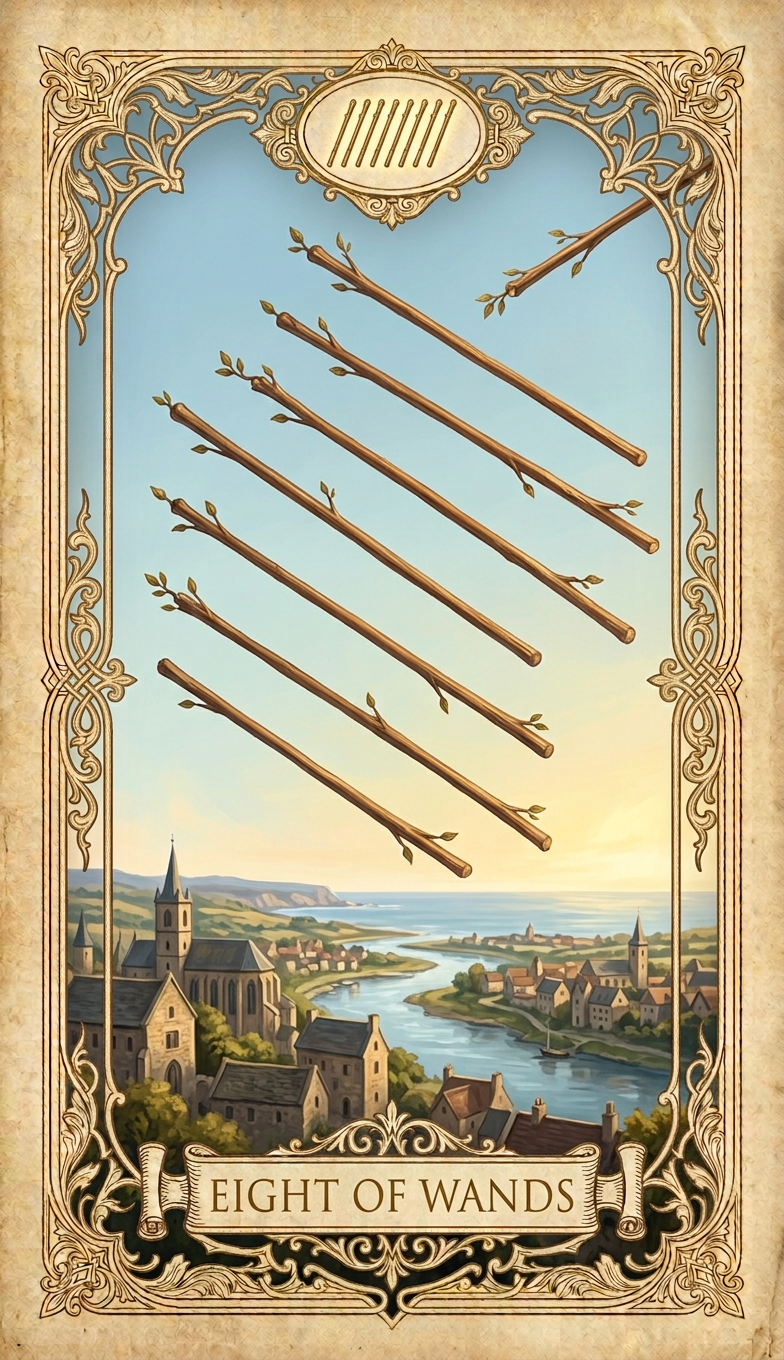
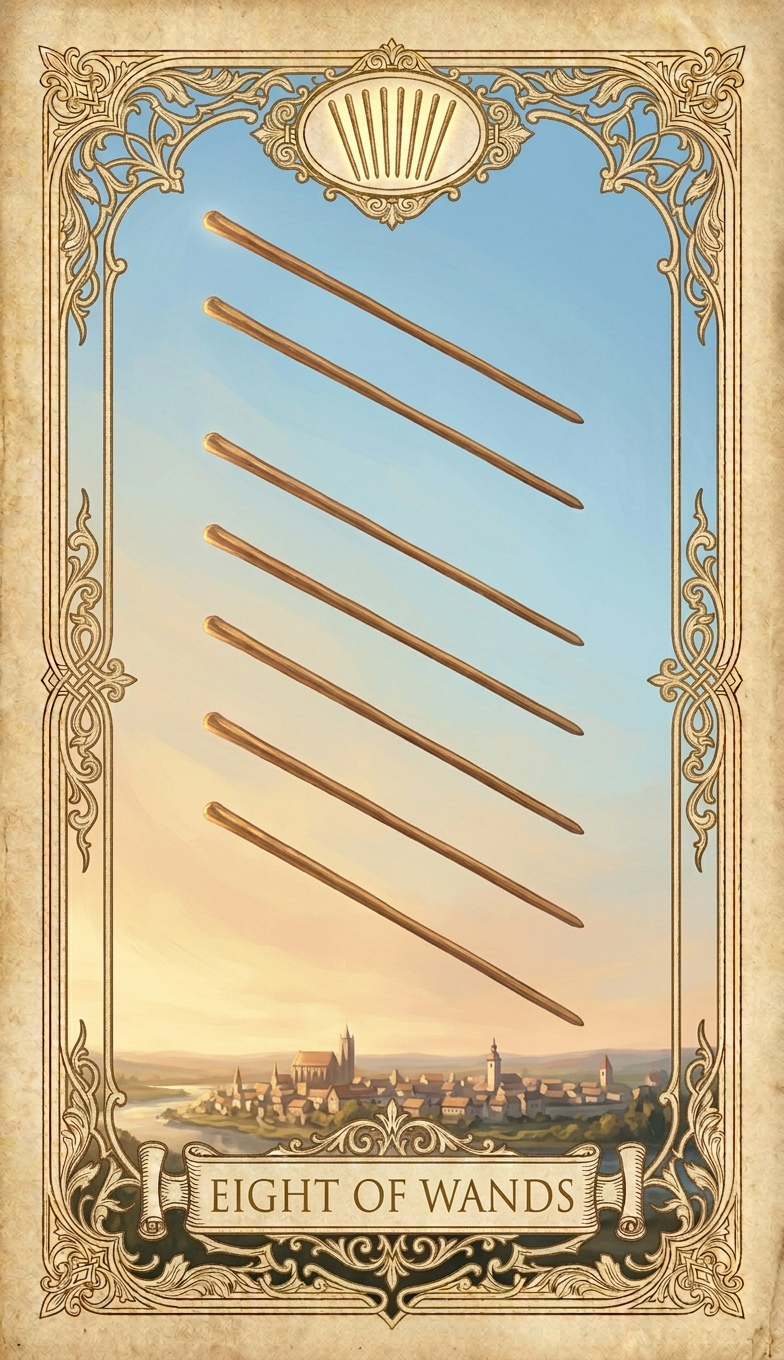
Keep Three/Nine/Page of Wands; redo Eight & Knight of Wands
User verified Three (3), Nine (9) and Page (1) wands are correct and kept
them. Redid the two remaining cards with stricter count-safe layouts:
- Eight of Wands: 8 identical wands in one parallel diagonal row with wide
  plain-sky gaps, none touching/crossing/cropped (frame RMSE 0.019).
- Knight of Wands: exactly one wand raised; no spear/staff/pole/flagpole
  anywhere in the scene (frame RMSE 0.020).

Wands suit now 14/14 complete in the softer+sensual+transparent-silk style.

diff --git a/web/wands-count-check.html b/web/wands-count-check.html
@@ -3,31 +3,27 @@
 <head>
 <meta charset="UTF-8">
 <meta name="viewport" content="width=device-width, initial-scale=1.0">
-<title>Kiểm tra số gậy — 5 lá Wands</title>
+<title>Kiểm tra số gậy — 2 lá làm lại</title>
 <style>
-  :root { --bg:#0e0c0a; --panel:#1e1a14; --gold:#d4af37; --ink:#e6d7b8; --ink-dim:#a8987e; --line:#3a3124; --ok:#7fbf6a; --warn:#d4a24a; }
+  :root { --bg:#0e0c0a; --panel:#1e1a14; --gold:#d4af37; --ink:#e6d7b8; --ink-dim:#a8987e; --line:#3a3124; --warn:#d4a24a; }
   * { margin:0; padding:0; box-sizing:border-box; }
   body { background:radial-gradient(1000px 500px at 50% -80px, rgba(212,175,55,.07), transparent 60%), var(--bg); color:var(--ink); font-family:Georgia,serif; min-height:100vh; padding:32px 20px 80px; }
   h1 { letter-spacing:3px; text-align:center; color:var(--gold); font-size:clamp(1.3rem,3vw,1.9rem); margin-bottom:6px; }
   p.sub { text-align:center; color:var(--ink-dim); margin-bottom:26px; font-style:italic; }
-  .grid { display:grid; grid-template-columns:repeat(auto-fit, minmax(240px, 1fr)); gap:22px; max-width:1500px; margin:0 auto; }
+  .grid { display:grid; grid-template-columns:repeat(auto-fit, minmax(260px, 1fr)); gap:22px; max-width:900px; margin:0 auto; }
   .card { background:var(--panel); border:1px solid var(--line); border-radius:12px; overflow:hidden; }
   .card img { width:100%; display:block; }
   .label { padding:12px 14px; text-align:center; border-top:1px solid var(--line); }
   .label .t { color:var(--gold); letter-spacing:1px; font-size:1rem; }
-  .label .c { display:block; margin-top:4px; font-size:.95rem; }
-  .label .c.need { color:var(--warn); font-weight:bold; }
+  .label .c { display:block; margin-top:4px; font-size:.95rem; color:var(--warn); font-weight:bold; }
 </style>
 </head>
 <body>
-<h1>🔍 Kiểm tra số gậy — 5 lá Wands</h1>
-<p class="sub">Đếm trực quan từng lá. Số gậy phải đúng: 3 · 8 · 9 · 1 · 1</p>
+<h1>🔍 Kiểm tra 2 lá làm lại</h1>
+<p class="sub">Đếm trực quan: Eight cần ĐÚNG 8 gậy · Knight cần ĐÚNG 1 gậy</p>
 <div class="grid">
-  <div class="card"><img src="../cards/wands-03.png" alt="Three of Wands"><div class="label"><span class="t">THREE OF WANDS</span><span class="c need">Cần ĐÚNG 3 gậy</span></div></div>
-  <div class="card"><img src="../cards/wands-08.png" alt="Eight of Wands"><div class="label"><span class="t">EIGHT OF WANDS</span><span class="c need">Cần ĐÚNG 8 gậy</span></div></div>
-  <div class="card"><img src="../cards/wands-09.png" alt="Nine of Wands"><div class="label"><span class="t">NINE OF WANDS</span><span class="c need">Cần ĐÚNG 9 gậy</span></div></div>
-  <div class="card"><img src="../cards/wands-page.png" alt="Page of Wands"><div class="label"><span class="t">PAGE OF WANDS</span><span class="c need">Cần ĐÚNG 1 gậy</span></div></div>
-  <div class="card"><img src="../cards/wands-knight.png" alt="Knight of Wands"><div class="label"><span class="t">KNIGHT OF WANDS</span><span class="c need">Cần ĐÚNG 1 gậy</span></div></div>
+  <div class="card"><img src="../cards/wands-08.png" alt="Eight of Wands"><div class="label"><span class="t">EIGHT OF WANDS</span><span class="c">Cần ĐÚNG 8 gậy</span></div></div>
+  <div class="card"><img src="../cards/wands-knight.png" alt="Knight of Wands"><div class="label"><span class="t">KNIGHT OF WANDS</span><span class="c">Cần ĐÚNG 1 gậy</span></div></div>
 </div>
 </body>
 </html>
